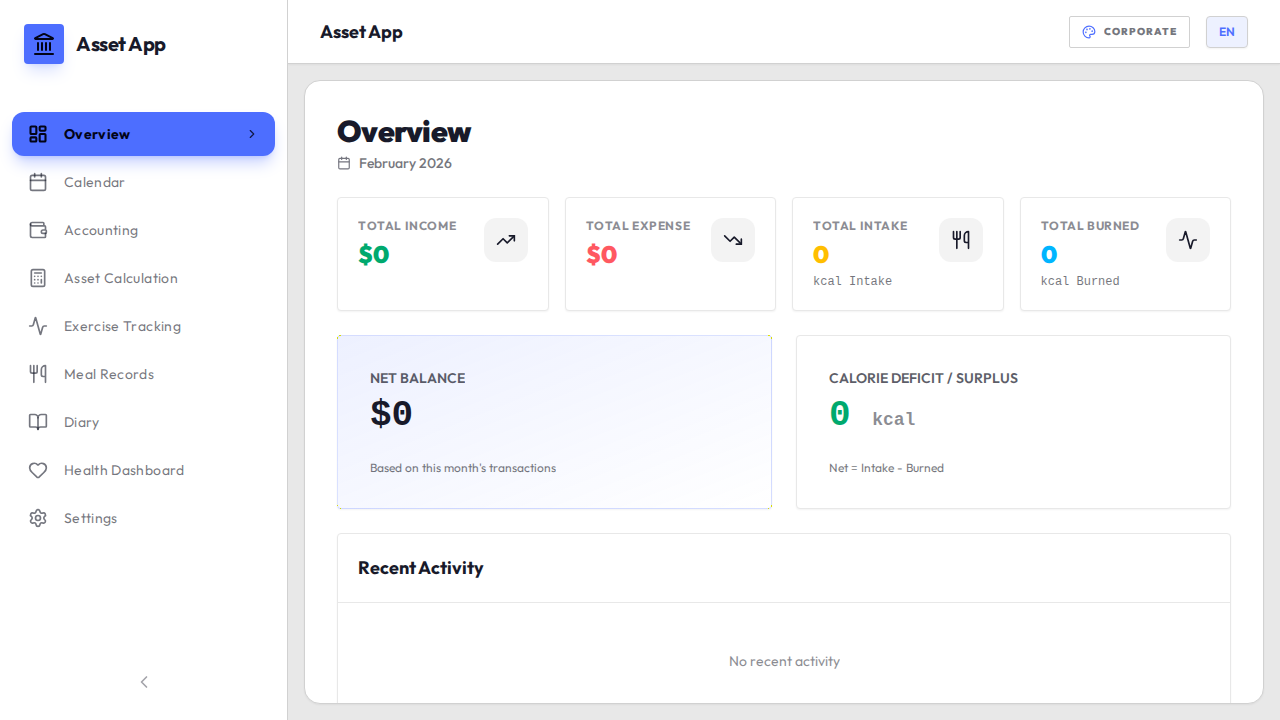
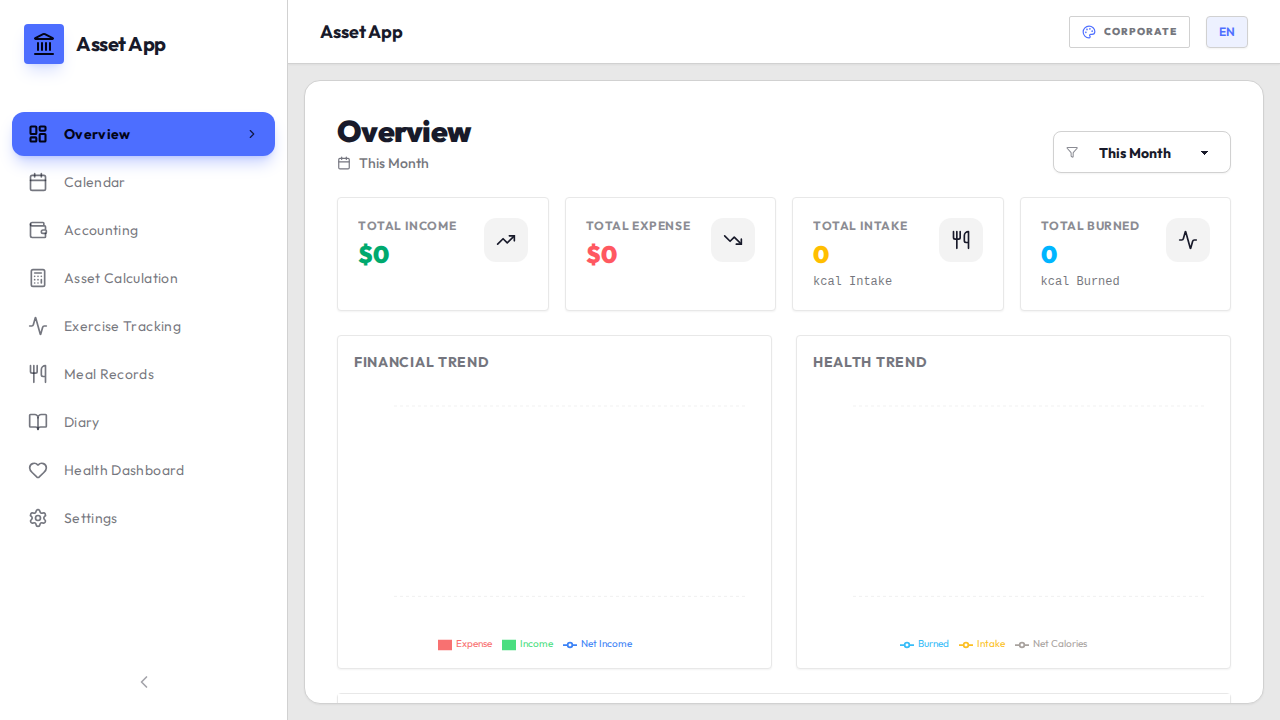
Enhance Overview dashboard with time filters and trend charts
- Update src/pages/Overview.tsx with time range selector (Month, Year, etc.)
- Add Financial and Health trend charts using Recharts
- Update summary cards to reflect selected time range
- Add translation keys for new time ranges and chart labels in src/i18n.ts

diff --git a/src/pages/Overview.tsx b/src/pages/Overview.tsx
@@ -1,18 +1,43 @@
 import React, { useState, useEffect } from 'react';
 import { useTranslation } from 'react-i18next';
-import { format, startOfMonth, endOfMonth, parseISO } from 'date-fns';
+import {
+    format,
+    startOfMonth,
+    endOfMonth,
+    subMonths,
+    startOfYear,
+    endOfYear,
+    parseISO,
+    eachDayOfInterval,
+    isSameDay,
+    startOfDay,
+    endOfDay
+} from 'date-fns';
 import {
     TrendingUp,
     TrendingDown,
     Activity,
     Utensils,
     Wallet,
-    Calendar as CalendarIcon
+    Calendar as CalendarIcon,
+    Filter
 } from 'lucide-react';
+import {
+    ResponsiveContainer,
+    ComposedChart,
+    Bar,
+    Area,
+    Line,
+    XAxis,
+    YAxis,
+    CartesianGrid,
+    Tooltip,
+    Legend
+} from 'recharts';
 
 import { depositService } from '../services/depositService';
 import { exerciseService } from '../services/exerciseService';
-import { mealService, type MealLog } from '../services/mealService';
+import { mealService } from '../services/mealService';
 
 interface ActivityItem {
     id: string;
@@ -25,26 +50,58 @@ interface ActivityItem {
     color: string;
 }
 
+type TimeRange = 'thisMonth' | 'lastMonth' | 'last3Months' | 'last6Months' | 'thisYear';
+
 const Overview: React.FC = () => {
     const { t } = useTranslation();
     const [loading, setLoading] = useState(true);
+    const [timeRange, setTimeRange] = useState<TimeRange>('thisMonth');
+
+    // Stats
     const [stats, setStats] = useState({
         income: 0,
         expense: 0,
         caloriesIn: 0,
         caloriesOut: 0
     });
+
+    // Lists & Charts
     const [activities, setActivities] = useState<ActivityItem[]>([]);
+    const [financialData, setFinancialData] = useState<any[]>([]);
+    const [healthData, setHealthData] = useState<any[]>([]);
 
     useEffect(() => {
         const fetchData = async () => {
             setLoading(true);
             try {
                 const now = new Date();
-                const start = startOfMonth(now);
-                const end = endOfMonth(now);
+                let start: Date;
+                let end: Date = endOfDay(now);
 
-                // Fetch Data
+                switch (timeRange) {
+                    case 'thisMonth':
+                        start = startOfMonth(now);
+                        end = endOfMonth(now);
+                        break;
+                    case 'lastMonth':
+                        start = startOfMonth(subMonths(now, 1));
+                        end = endOfMonth(subMonths(now, 1));
+                        break;
+                    case 'last3Months':
+                        start = startOfMonth(subMonths(now, 2));
+                        break;
+                    case 'last6Months':
+                        start = startOfMonth(subMonths(now, 5));
+                        break;
+                    case 'thisYear':
+                        start = startOfYear(now);
+                        end = endOfYear(now);
+                        break;
+                    default:
+                        start = startOfMonth(now);
+                }
+
+                // Fetch Data in parallel
                 const [transLogs, exLogs, mLogs] = await Promise.all([
                     depositService.queryByDateRange({
                         start: start.toISOString(),
@@ -55,7 +112,7 @@ const Overview: React.FC = () => {
                     mealService.getLogs(start.getTime(), end.getTime())
                 ]);
 
-                // Process Stats
+                // --- 1. Calculate Totals ---
                 let income = 0;
                 let expense = 0;
                 transLogs.forEach(log => {
@@ -68,7 +125,7 @@ const Overview: React.FC = () => {
 
                 setStats({ income, expense, caloriesIn, caloriesOut });
 
-                // Process Recent Activity (Combine and Sort)
+                // --- 2. Process Activities ---
                 const combined: ActivityItem[] = [
                     ...transLogs.map(log => ({
                         id: `d-${log.id}`,
@@ -100,10 +157,52 @@ const Overview: React.FC = () => {
                         icon: <Utensils size={16} />,
                         color: 'text-warning'
                     }))
-                ].sort((a, b) => b.date.getTime() - a.date.getTime())
-                 .slice(0, 10); // Top 10
+                ].sort((a, b) => b.date.getTime() - a.date.getTime());
 
                 setActivities(combined);
+
+                // --- 3. Process Chart Data (Daily Aggregation) ---
+                // Generate all days in interval to ensure continuous x-axis
+                const days = eachDayOfInterval({ start, end });
+
+                const chartData = days.map(day => {
+                    const dayStart = startOfDay(day);
+                    const dayEnd = endOfDay(day);
+
+                    // Filter logs for this day
+                    const dayTrans = transLogs.filter(l => {
+                        const d = parseISO(l.transDate);
+                        return d >= dayStart && d <= dayEnd;
+                    });
+                    const dayEx = exLogs.filter(l => {
+                        const d = parseISO(l.transDate);
+                        return d >= dayStart && d <= dayEnd;
+                    });
+                    const dayMeal = mLogs.filter(l => {
+                        const d = parseISO(l.transDate);
+                        return d >= dayStart && d <= dayEnd;
+                    });
+
+                    // Sum values
+                    const inc = dayTrans.filter(l => l.type === '收入' || l.type === 'Income').reduce((s, c) => s + c.value, 0);
+                    const exp = dayTrans.filter(l => l.type === '支出' || l.type === 'Expense').reduce((s, c) => s + c.value, 0);
+                    const calIn = dayMeal.reduce((s, c) => s + c.calories, 0);
+                    const calOut = dayEx.reduce((s, c) => s + c.calories, 0);
+
+                    return {
+                        date: format(day, 'MM/dd'),
+                        fullDate: format(day, 'yyyy-MM-dd'),
+                        income: inc,
+                        expense: exp,
+                        caloriesIn: calIn,
+                        caloriesOut: calOut,
+                        netIncome: inc - exp,
+                        netCalories: calIn - calOut
+                    };
+                });
+
+                setFinancialData(chartData);
+                setHealthData(chartData);
 
             } catch (error) {
                 console.error("Failed to fetch overview data", error);
@@ -113,11 +212,11 @@ const Overview: React.FC = () => {
         };
 
         fetchData();
-    }, []);
+    }, [timeRange]);
 
     // eslint-disable-next-line @typescript-eslint/no-explicit-any
     const StatCard = ({ title, value, icon, color, subValue }: any) => (
-        <div className="card bg-base-100 shadow-sm border border-base-200">
+        <div className="card bg-base-100 shadow-sm border border-base-200 hover:shadow-md transition-shadow">
             <div className="card-body p-5">
                 <div className="flex justify-between items-start">
                     <div>
@@ -135,14 +234,29 @@ const Overview: React.FC = () => {
 
     return (
         <div className="h-full overflow-y-auto scroll-modern p-4 md:p-6 lg:p-8 space-y-6 animate-in fade-in duration-500 pb-20">
-            {/* Header */}
-            <div className="flex justify-between items-end">
+            {/* Header with Filter */}
+            <div className="flex flex-col md:flex-row justify-between items-start md:items-end gap-4">
                 <div>
                     <h1 className="text-3xl font-black tracking-tight">{t('nav.overview')}</h1>
                     <p className="text-sm opacity-60 font-medium mt-1 flex items-center gap-2">
                         <CalendarIcon size={14} />
-                        {format(new Date(), 'MMMM yyyy')}
+                        {t(`overview.ranges.${timeRange}`)}
                     </p>
+                </div>
+
+                <div className="flex items-center bg-base-100 rounded-lg border border-base-300 p-1 shadow-sm">
+                    <Filter size={16} className="mx-2 opacity-50" />
+                    <select
+                        className="select select-sm select-ghost w-full max-w-xs focus:bg-transparent font-bold"
+                        value={timeRange}
+                        onChange={(e) => setTimeRange(e.target.value as TimeRange)}
+                    >
+                        <option value="thisMonth">{t('overview.ranges.thisMonth')}</option>
+                        <option value="lastMonth">{t('overview.ranges.lastMonth')}</option>
+                        <option value="last3Months">{t('overview.ranges.last3Months')}</option>
+                        <option value="last6Months">{t('overview.ranges.last6Months')}</option>
+                        <option value="thisYear">{t('overview.ranges.thisYear')}</option>
+                    </select>
                 </div>
             </div>
 
@@ -176,41 +290,66 @@ const Overview: React.FC = () => {
                 />
             </div>
 
-            {/* Balance & Net */}
-            <div className="grid grid-cols-1 lg:grid-cols-2 gap-6">
-                <div className="card bg-gradient-to-br from-primary/10 to-transparent border border-primary/20 shadow-sm">
-                    <div className="card-body">
-                        <h3 className="card-title text-sm uppercase opacity-70">Net Balance</h3>
-                        <div className="text-4xl font-black font-mono">
-                            ${(stats.income - stats.expense).toLocaleString()}
-                        </div>
-                        <div className="mt-auto pt-4 text-xs opacity-60">
-                            Based on this month's transactions
+            {/* Charts Section */}
+            <div className="grid grid-cols-1 xl:grid-cols-2 gap-6">
+                {/* Financial Chart */}
+                <div className="card bg-base-100 border border-base-200 shadow-sm">
+                    <div className="card-body p-4">
+                        <h3 className="text-sm font-bold uppercase tracking-wider opacity-60 mb-4">{t('overview.financialTrend')}</h3>
+                        <div className="h-64 w-full">
+                            <ResponsiveContainer width="100%" height="100%">
+                                <ComposedChart data={financialData} margin={{ top: 10, right: 10, left: -20, bottom: 0 }}>
+                                    <CartesianGrid strokeDasharray="3 3" vertical={false} opacity={0.3} />
+                                    <XAxis dataKey="date" tick={{fontSize: 10}} tickLine={false} axisLine={false} />
+                                    <YAxis tick={{fontSize: 10}} tickLine={false} axisLine={false} />
+                                    <Tooltip
+                                        contentStyle={{ borderRadius: '12px', border: 'none', boxShadow: '0 10px 15px -3px rgba(0, 0, 0, 0.1)' }}
+                                        cursor={{ fill: 'rgba(0,0,0,0.05)' }}
+                                    />
+                                    <Legend wrapperStyle={{ fontSize: '10px', paddingTop: '10px' }} />
+                                    <Bar dataKey="income" name={t('deposit.filter.income')} fill="#4ade80" radius={[4, 4, 0, 0]} barSize={20} />
+                                    <Bar dataKey="expense" name={t('deposit.filter.expense')} fill="#f87171" radius={[4, 4, 0, 0]} barSize={20} />
+                                    <Line type="monotone" dataKey="netIncome" name={t('overview.netIncome')} stroke="#3b82f6" strokeWidth={2} dot={false} />
+                                </ComposedChart>
+                            </ResponsiveContainer>
                         </div>
                     </div>
                 </div>
 
+                {/* Health Chart */}
                 <div className="card bg-base-100 border border-base-200 shadow-sm">
-                    <div className="card-body">
-                        <h3 className="card-title text-sm uppercase opacity-70">Calorie Deficit / Surplus</h3>
-                        <div className={`text-4xl font-black font-mono ${stats.caloriesIn - stats.caloriesOut > 0 ? 'text-warning' : 'text-success'}`}>
-                            {(stats.caloriesIn - stats.caloriesOut).toLocaleString()} <span className="text-lg text-base-content/50">kcal</span>
-                        </div>
-                        <div className="mt-auto pt-4 text-xs opacity-60">
-                            Net = Intake - Burned
+                    <div className="card-body p-4">
+                        <h3 className="text-sm font-bold uppercase tracking-wider opacity-60 mb-4">{t('overview.healthTrend')}</h3>
+                        <div className="h-64 w-full">
+                            <ResponsiveContainer width="100%" height="100%">
+                                <ComposedChart data={healthData} margin={{ top: 10, right: 10, left: -20, bottom: 0 }}>
+                                    <CartesianGrid strokeDasharray="3 3" vertical={false} opacity={0.3} />
+                                    <XAxis dataKey="date" tick={{fontSize: 10}} tickLine={false} axisLine={false} />
+                                    <YAxis tick={{fontSize: 10}} tickLine={false} axisLine={false} />
+                                    <Tooltip
+                                        contentStyle={{ borderRadius: '12px', border: 'none', boxShadow: '0 10px 15px -3px rgba(0, 0, 0, 0.1)' }}
+                                        cursor={{ fill: 'rgba(0,0,0,0.05)' }}
+                                    />
+                                    <Legend wrapperStyle={{ fontSize: '10px', paddingTop: '10px' }} />
+                                    <Area type="monotone" dataKey="caloriesIn" name={t('meal.dashboard.intake')} fill="#fbbf24" stroke="#fbbf24" fillOpacity={0.2} />
+                                    <Area type="monotone" dataKey="caloriesOut" name={t('meal.dashboard.burned')} fill="#38bdf8" stroke="#38bdf8" fillOpacity={0.2} />
+                                    <Line type="monotone" dataKey="netCalories" name={t('overview.netCalories')} stroke="#a8a29e" strokeWidth={2} dot={false} strokeDasharray="5 5" />
+                                </ComposedChart>
+                            </ResponsiveContainer>
                         </div>
                     </div>
                 </div>
             </div>
 
-            {/* Recent Activity */}
+            {/* Recent Activity List */}
             <div className="card bg-base-100 border border-base-200 shadow-sm">
                 <div className="card-body p-0">
-                    <div className="p-5 border-b border-base-200 flex justify-between items-center">
-                        <h3 className="font-bold text-lg">Recent Activity</h3>
+                    <div className="p-5 border-b border-base-200 flex justify-between items-center sticky top-0 bg-base-100 z-10">
+                        <h3 className="font-bold text-lg">Activity Log</h3>
+                        <div className="badge badge-outline text-xs font-mono">{activities.length} Records</div>
                     </div>
-                    <div className="overflow-x-auto">
-                        <table className="table table-zebra">
+                    <div className="overflow-x-auto max-h-96 scroll-modern">
+                        <table className="table table-zebra table-pin-rows">
                             <tbody>
                                 {activities.map((item) => (
                                     <tr key={item.id} className="group hover:bg-base-200/50">
@@ -223,7 +362,7 @@ const Overview: React.FC = () => {
                                             <div className="font-bold text-sm">{item.title}</div>
                                             <div className="text-xs opacity-50">{item.subtitle}</div>
                                         </td>
-                                        <td className="text-right font-mono font-medium">
+                                        <td className="text-right font-mono font-medium text-xs opacity-60">
                                             {format(item.date, 'MMM d, HH:mm')}
                                         </td>
                                         <td className={`text-right pr-6 font-mono font-bold ${item.color}`}>
@@ -234,7 +373,7 @@ const Overview: React.FC = () => {
                                 {activities.length === 0 && !loading && (
                                     <tr>
                                         <td colSpan={4} className="text-center py-10 opacity-50">
-                                            No recent activity
+                                            No activity found for this period
                                         </td>
                                     </tr>
                                 )}

diff --git a/src/i18n.ts b/src/i18n.ts
@@ -234,6 +234,20 @@ const resources = {
                 "thisMonth": "This Month",
                 "last7Days": "Last 7 Days"
             },
+            "overview": {
+                "financialTrend": "Financial Trend",
+                "healthTrend": "Health Trend",
+                "netIncome": "Net Income",
+                "netCalories": "Net Calories",
+                "ranges": {
+                    "thisMonth": "This Month",
+                    "lastMonth": "Last Month",
+                    "last3Months": "Last 3 Months",
+                    "last6Months": "Last 6 Months",
+                    "thisYear": "This Year",
+                    "allTime": "All Time"
+                }
+            },
             "deposit": {
                 "subtitle": "Transaction Tracking & Analysis",
                 "stats": {
@@ -558,6 +572,20 @@ const resources = {
                 "thisWeek": "本週",
                 "thisMonth": "本月",
                 "last7Days": "最近 7 天"
+            },
+            "overview": {
+                "financialTrend": "財務趨勢",
+                "healthTrend": "健康趨勢",
+                "netIncome": "淨收入",
+                "netCalories": "淨卡路里",
+                "ranges": {
+                    "thisMonth": "本月",
+                    "lastMonth": "上個月",
+                    "last3Months": "最近 3 個月",
+                    "last6Months": "最近 6 個月",
+                    "thisYear": "今年",
+                    "allTime": "全部"
+                }
             },
             "deposit": {
                 "subtitle": "交易追蹤與分析",
